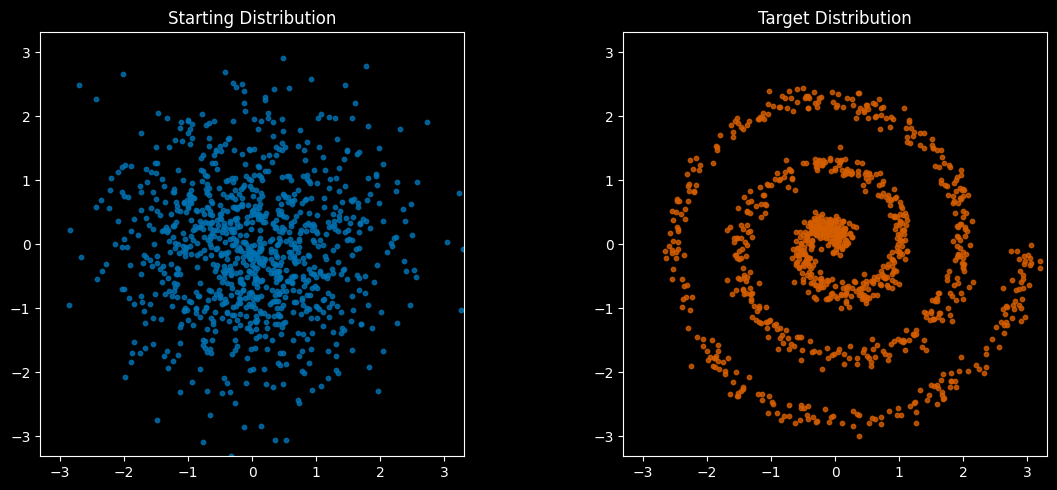
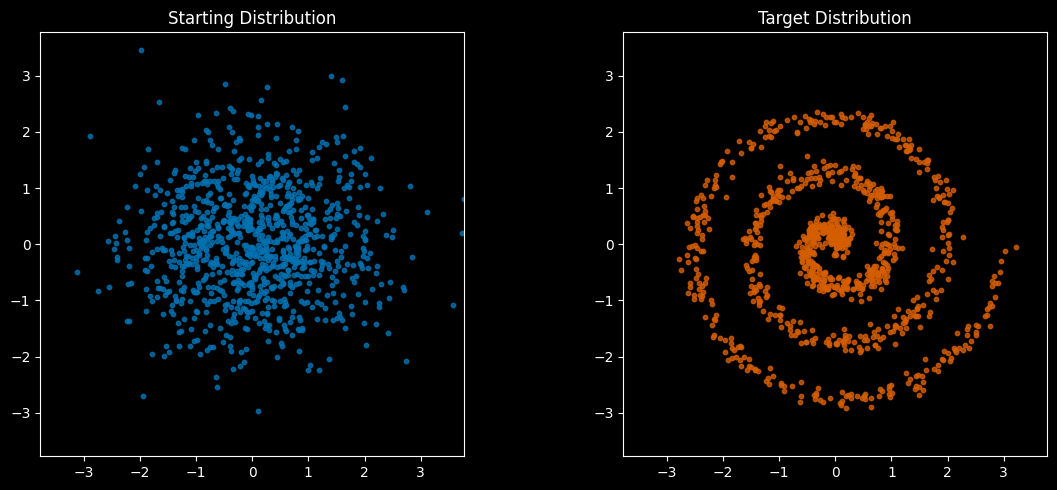
Built site for gh-pages

diff --git a/posts/FlowModels.html b/posts/FlowModels.html
@@ -301,9 +301,7 @@ img.animated-gif{
 </center>
 <p><br></p>
 <p>Notice that the streamlines never cross. If the streams were to cross… “it would be bad.” That would imply that the velocity at some point is undefined.</p>
-<center>
-<img class="animated-gif" src="https://i.giphy.com/media/v1.Y2lkPTc5MGI3NjExOWVweHVkdncxMmdnOWpidm43bDk3bm9qejh1Z3JyMW1pZzl1NjB0biZlcD12MV9pbnRlcm5hbF9naWZfYnlfaWQmY3Q9Zw/3o72FiKtrMAjIb0Rhu/giphy.gif" alt="don't cross the sctreams - ghostbusters">
-</center>
+<p><img src="https://i.giphy.com/media/v1.Y2lkPTc5MGI3NjExOWVweHVkdncxMmdnOWpidm43bDk3bm9qejh1Z3JyMW1pZzl1NjB0biZlcD12MV9pbnRlcm5hbF9naWZfYnlfaWQmY3Q9Zw/3o72FiKtrMAjIb0Rhu/giphy.gif" class="img-fluid"></p>
 <p>So at every point in space there’s a velocity vector telling the little bits of water where to go. And just like water or wind flows may depend not only on spatial position but also time, so too can our velocity vector field depend on position and time.</p>
 <p>Flow matching learns these natural paths by focusing on the <em>velocity</em> at each point - essentially asking “which way should each point be moving at this moment?”</p>
 <blockquote class="blockquote">
@@ -601,19 +599,18 @@ img.animated-gif{
 <span id="cb4-36"><a href="#cb4-36" aria-hidden="true" tabindex="-1"></a>os.makedirs(<span class="st">'images'</span>, exist_ok<span class="op">=</span><span class="va">True</span>) </span>
 <span id="cb4-37"><a href="#cb4-37" aria-hidden="true" tabindex="-1"></a>save_file<span class="op">=</span><span class="st">'images/guassian_to_spiral_crossing_lines.png'</span></span>
 <span id="cb4-38"><a href="#cb4-38" aria-hidden="true" tabindex="-1"></a>plt.savefig(save_file)</span>
-<span id="cb4-39"><a href="#cb4-39" aria-hidden="true" tabindex="-1"></a>plt.close()</span>
-<span id="cb4-40"><a href="#cb4-40" aria-hidden="true" tabindex="-1"></a></span>
-<span id="cb4-41"><a href="#cb4-41" aria-hidden="true" tabindex="-1"></a>HTML(<span class="ss">f"""&lt;center&gt;&lt;img src="</span><span class="sc">{</span>save_file<span class="sc">}</span><span class="ss">" width="600"&gt;&lt;/center&gt;"""</span>) </span></code><button title="Copy to Clipboard" class="code-copy-button"><i class="bi"></i></button></pre></div>
+<span id="cb4-39"><a href="#cb4-39" aria-hidden="true" tabindex="-1"></a>plt.show()</span>
+<span id="cb4-40"><a href="#cb4-40" aria-hidden="true" tabindex="-1"></a>plt.close()</span>
+<span id="cb4-41"><a href="#cb4-41" aria-hidden="true" tabindex="-1"></a></span>
+<span id="cb4-42"><a href="#cb4-42" aria-hidden="true" tabindex="-1"></a><span class="co">#HTML(f"""&lt;center&gt;&lt;img src="{save_file}" width="600"&gt;&lt;/center&gt;""") </span></span></code><button title="Copy to Clipboard" class="code-copy-button"><i class="bi"></i></button></pre></div>
 </details>
 <div class="cell-output cell-output-display">
-<center><img src="images/guassian_to_spiral_crossing_lines.png" width="600"></center>
+<p><img src="FlowModels_files/figure-html/cell-7-output-1.png" class="img-fluid"></p>
 </div>
 </div>
 <p><em>(Will: I also had a 3D version of the above figure here, but I’ve taken out b/c I don’t think it added anything.)</em></p>
 <p>There are big issues with doing this: The random pairing results in lots of trajectories that cross each other. But this is a <em>starting point</em> for Flow Matching. So in other words, when training a Flow Matching model…</p>
-<center>
-<img class="animated-gif" src="https://media0.giphy.com/media/v1.Y2lkPTc5MGI3NjExZWl4anh6ZnI2NXI1azN1b2dvbjRwMDJodzVqajF0aWwyb2NwYzkxayZlcD12MV9pbnRlcm5hbF9naWZfYnlfaWQmY3Q9Zw/3o72EWUgbRNfLegO1W/giphy.webp">
-</center>
+<p><img src="https://media0.giphy.com/media/v1.Y2lkPTc5MGI3NjExZWl4anh6ZnI2NXI1azN1b2dvbjRwMDJodzVqajF0aWwyb2NwYzkxayZlcD12MV9pbnRlcm5hbF9naWZfYnlfaWQmY3Q9Zw/3o72EWUgbRNfLegO1W/giphy.webp" class="img-fluid"></p>
 <p>…welllll ok quite: we’re going to allow the <em>trajectories of individual points</em> to cross as we train the model. This <em>is</em> a bit “confusing” for the model, which will be trying to learn a velocity field, and that isn’t defined where trajectories cross. Eventually, however, the model will learn to estimate the <em>aggregated motion</em> of many particles, which will sort of average out to arrive at the “bulk motion” of the flow. This is similar to how the brownian motion of many air or water particles averages out on the macroscopic level, giving us streamlines that don’t cross.</p>
 <p>This is why flow matching is about transforming <em>distributions</em>, not individual points. The learned velocity field might not exactly match any of our training trajectories, but it captures the statistical flow needed to transform one distribution into another.</p>
 <p>Here’s a visualization from the code we’ll execute later in the lesson. We’ll plot…</p>
@@ -1449,7 +1446,7 @@ img.animated-gif{
 <h1 data-number="4"><span class="header-section-number">4</span> Connecting with Other Models</h1>
 <section id="optimal-transport" class="level3" data-number="4.0.1">
 <h3 data-number="4.0.1" class="anchored" data-anchor-id="optimal-transport"><span class="header-section-number">4.0.1</span> Optimal Transport</h3>
-<p>Interesting observation: See how the Reflowed streamlines in the last movie are approximately stationary (i.e., time-independent)? This connects nicely with Optimal Transport theory, where the Benamou-Brenier formulation <span class="citation" data-cites="bb_form"><a href="#ref-bb_form" role="doc-biblioref">[7]</a></span> (which has a diffusion equation as on objective) shows that optimal mass transport paths follow constant-velocity geodesics in the Wasserstein metric space. This time-independence property emerges naturally when minimizing transport costs in simple metric spaces, as particles following straight-line paths at constant speeds achieve optimal transport between distributions.</p>
+<p>Interesting observation: See how the Reflowed streamlines in the last movie are approximately stationary (i.e., time-independent)? This connects nicely with Optimal Transport theory, where the Benamou-Brenier formulation <span class="citation" data-cites="bb_form"><a href="#ref-bb_form" role="doc-biblioref">[7]</a></span> (which has a diffusion-esque equation as on objective) shows that optimal mass transport paths follow constant-velocity geodesics in the Wasserstein metric space. This time-independence property emerges naturally when minimizing transport costs in simple metric spaces, as particles following straight-line paths at constant speeds achieve optimal transport between distributions.</p>
 </section>
 <section id="diffusion-models" class="level3" data-number="4.0.2">
 <h3 data-number="4.0.2" class="anchored" data-anchor-id="diffusion-models"><span class="header-section-number">4.0.2</span> Diffusion Models</h3>
@@ -1457,11 +1454,14 @@ img.animated-gif{
 </section>
 <section id="normalizing-flows" class="level3" data-number="4.0.3">
 <h3 data-number="4.0.3" class="anchored" data-anchor-id="normalizing-flows"><span class="header-section-number">4.0.3</span> Normalizing Flows</h3>
-<p>Normalizing flows have the property that they preserve overall probability in the process. It turns out that, while this would seem to be a nice constraint to satisfy, it is unnecessary for “getting the job done” and can limit the expressiveness of the model. Note: a physics analogy to normalizing flows might be the phase space flow in Hamiltonian mechanics, which preserves area elements ala Liousville’s Theorem.)</p>
+<p>Normalizing flows have the property that they preserve overall probability in the process. It turns out that, while this would seem to be a nice constraint to satisfy, it is unnecessary for “getting the job done” and can limit the expressiveness of the model. Note: a physics analogy to normalizing flows might be the phase space flow in Hamiltonian mechanics, which preserves area elements ala Liousville’s Theorem <span class="citation" data-cites="liouvilles_theorem"><a href="#ref-liouvilles_theorem" role="doc-biblioref">[8]</a></span>.)</p>
 </section>
 <section id="from-dots-to-images-audio-etc.." class="level3" data-number="4.0.4">
 <h3 data-number="4.0.4" class="anchored" data-anchor-id="from-dots-to-images-audio-etc.."><span class="header-section-number">4.0.4</span> From Dots to Images, Audio, etc..</h3>
-<p>So far our work has only been with dots in two dimensions. How to move on from 2D dots to things like images, text, audio,…etc? We need only consider that the dimensionality of the velocity model is the same as that of the data itself. Put differently, one can regard the velocity model as supply a tiny “change” to the data, whatever form that data is in. So for images, we will get a “velocity image”, which will tell us how to change the R,G,B value of every pixel in an image. This is where U-Nets and Attention come in to play, to compute the “image-to-image” task of supplying a “velocity image” given an input image distribution (which may just be noise). For audio, regardless of the representation, the velocity model will tell us how to slightly change the component values in that representation. We then just integrate all the little changes as we did with the dots. * I recommend checking out an MNIST image example such as Tadao Yamaoka’s <span class="citation" data-cites="rf_mnist_example"><a href="#ref-rf_mnist_example" role="doc-biblioref">[8]</a></span></p>
+<p>So far, our work has only been with dots in two dimensions. How to move on from 2D dots to things like images, text, audio,…etc? We need only consider that the dimensionality of the velocity model is the same as that of the data itself. Put differently, one can regard the velocity model as supply a tiny “change” to the data, whatever form that data is in. So for images, we will get a “velocity image”, which will tell us how to change the R,G,B value of every pixel in an image. This is where U-Nets and Attention come in to play, to compute the “image-to-image” task of supplying a “velocity image” given an input image distribution (which may just be noise). For audio, regardless of the representation, the velocity model will tell us how to slightly change the component values in that representation. We then just integrate all the little changes as we did with the dots.</p>
+<ul>
+<li>I recommend checking out an MNIST image example such as Tadao Yamaoka’s <span class="citation" data-cites="rf_mnist_example"><a href="#ref-rf_mnist_example" role="doc-biblioref">[9]</a></span></li>
+</ul>
 </section>
 </section>
 <section id="summary" class="level1" data-number="5">
@@ -1493,8 +1493,11 @@ img.animated-gif{
 <div id="ref-bb_form" class="csl-entry" role="listitem">
 <div class="csl-left-margin">[7] </div><div class="csl-right-inline">J.-D. Benamou and Y. Brenier, <span>“A computational fluid mechanics solution to the monge-kantorovich mass transfer problem,”</span> <em>Numerische Mathematik</em>, vol. 84, pp. 375–393, 2000, Available: <a href="https://api.semanticscholar.org/CorpusID:1100384">https://api.semanticscholar.org/CorpusID:1100384</a></div>
 </div>
+<div id="ref-liouvilles_theorem" class="csl-entry" role="listitem">
+<div class="csl-left-margin">[8] </div><div class="csl-right-inline">Wikipedia, <span>“<span class="nocase">Liouville’s theorem (Hamiltonian)</span> — <span>W</span>ikipedia<span>,</span> the free encyclopedia.”</span> <a href="http://en.wikipedia.org/w/index.php?title=Liouville's%20theorem%20(Hamiltonian)&amp;oldid=1233185478" class="uri">http://en.wikipedia.org/w/index.php?title=Liouville's%20theorem%20(Hamiltonian)&amp;oldid=1233185478</a>, 2024.</div>
+</div>
 <div id="ref-rf_mnist_example" class="csl-entry" role="listitem">
-<div class="csl-left-margin">[8] </div><div class="csl-right-inline">T. Yamaoka, <span>“Image generation with rectified flow part 2 (learning MNIST using scratch implementation).”</span> 2024. Available: <a href="https://tadaoyamaoka.hatenablog.com/entry/2024/09/29/163801">https://tadaoyamaoka.hatenablog.com/entry/2024/09/29/163801</a></div>
+<div class="csl-left-margin">[9] </div><div class="csl-right-inline">T. Yamaoka, <span>“Image generation with rectified flow part 2 (learning MNIST using scratch implementation).”</span> 2024. Available: <a href="https://tadaoyamaoka.hatenablog.com/entry/2024/09/29/163801">https://tadaoyamaoka.hatenablog.com/entry/2024/09/29/163801</a></div>
 </div>
 </div>
 <hr>

diff --git a/index.html b/index.html
@@ -182,7 +182,7 @@ details > summary {
 
 <div class="quarto-listing quarto-listing-container-default" id="listing-listing">
 <div class="list quarto-listing-default">
-<div class="quarto-post image-right" data-index="0" data-categories="diffusion,generative,transformers,flows" data-listing-date-sort="1731391200000" data-listing-file-modified-sort="1731301490754" data-listing-date-modified-sort="NaN" data-listing-reading-time-sort="16">
+<div class="quarto-post image-right" data-index="0" data-categories="diffusion,generative,transformers,flows" data-listing-date-sort="1731391200000" data-listing-file-modified-sort="1731339462832" data-listing-date-modified-sort="NaN" data-listing-reading-time-sort="16">
 <div class="thumbnail">
 <p><a href="./posts/FlowModels.html"> <img src="./posts/images/flow_gaussian_to_spiral.png" class="thumbnail-image"> </a></p>
 </div>
